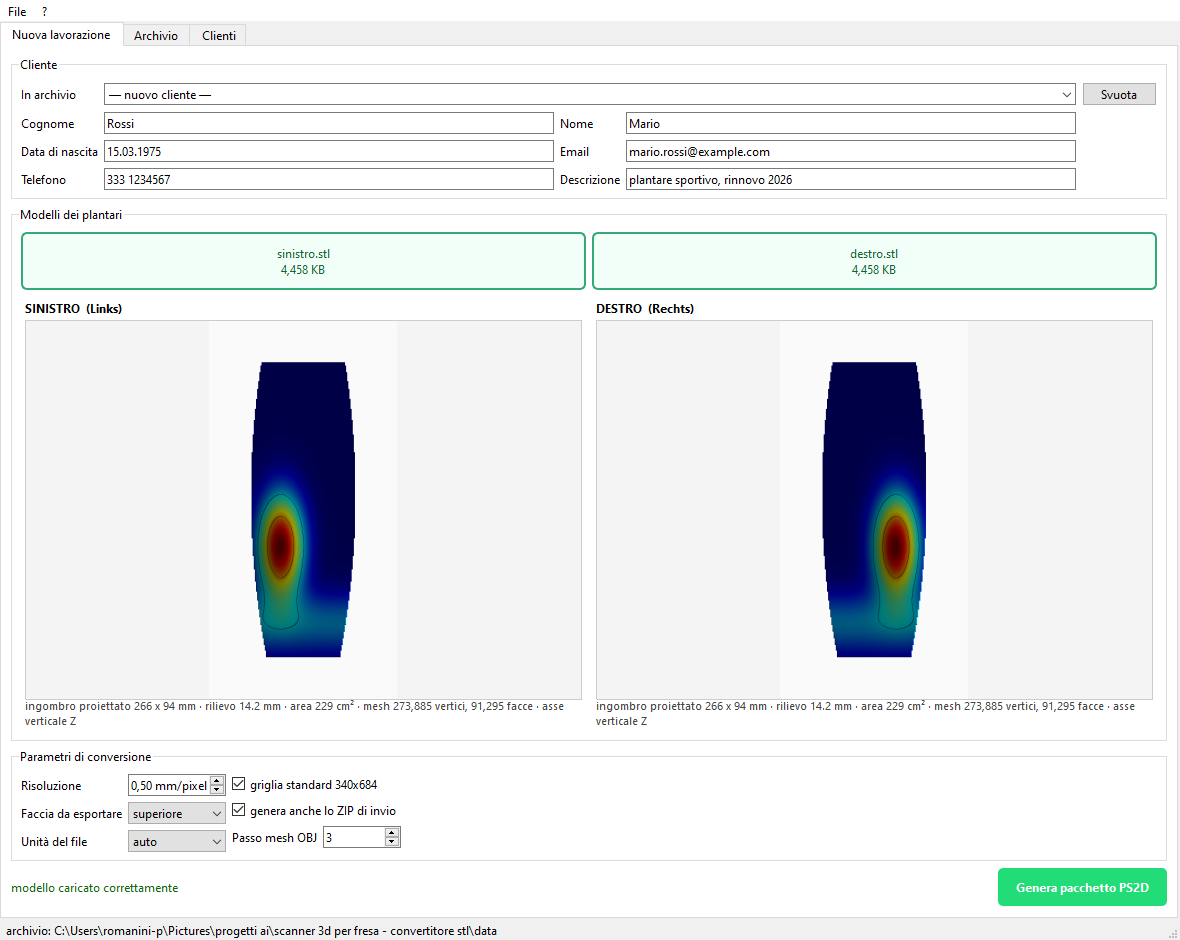
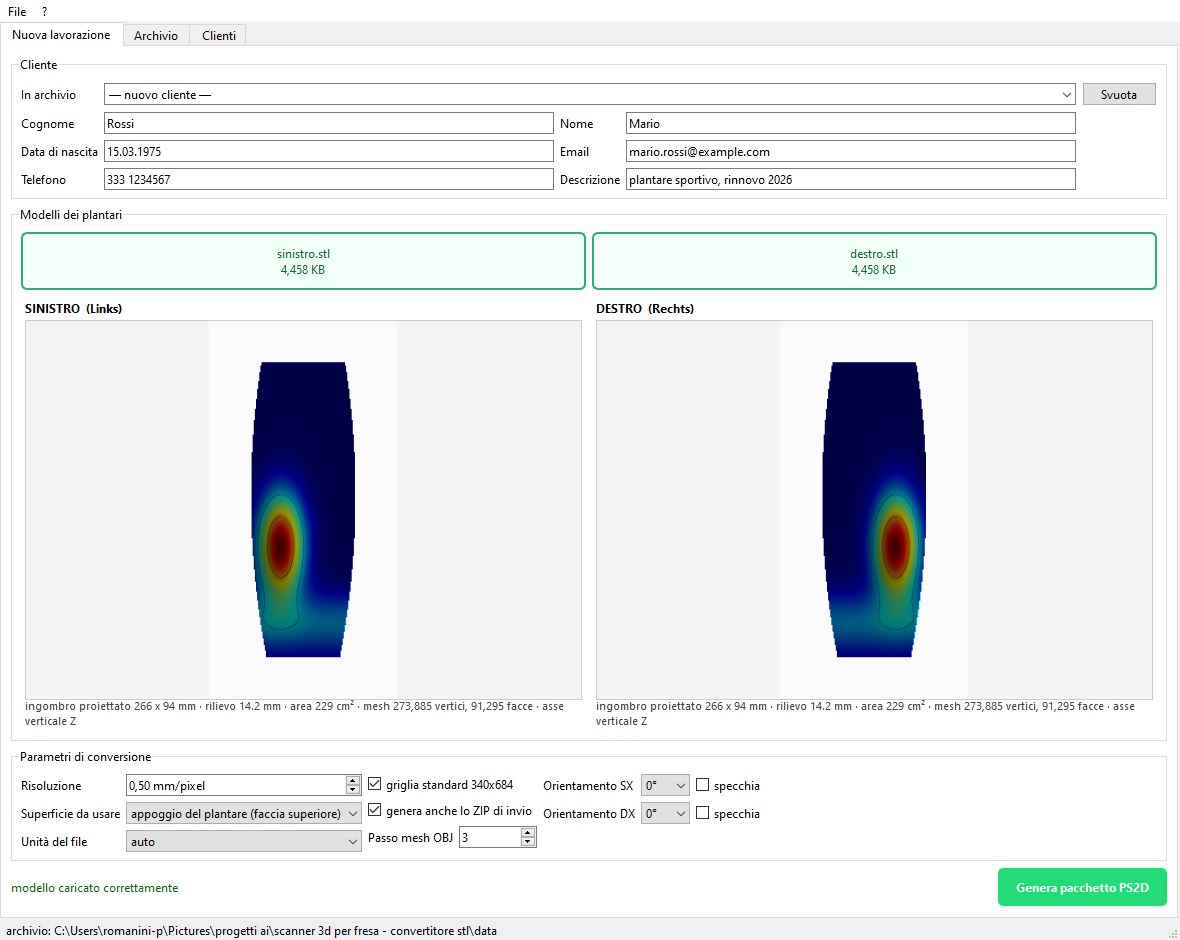
Orientamento configurabile e flusso di lavoro chiarito
Il .ps2d non e' il file che va alla fresa: e' l'input del software di
modellazione, che importa lo ZIP, crea il paziente e apre le immagini.
Il caso d'uso reale e' quindi far entrare nel flusso scansioni di piedi
acquisite con uno scanner diverso da quello nativo, non plantari gia'
modellati: cade il rischio dello spessore aggiunto due volte.

Ne discendono due esigenze pratiche. Su un piede scansionato intero la
pianta e' la faccia inferiore, non la superiore, e la scelta ora ha
etichette esplicite con quel valore predefinito. L'orientamento puo'
inoltre differire da scanner a scanner: aggiunte rotazione a passi di
90 gradi e specchiatura, separate per lato, con rigenerazione immediata
dell'anteprima a ogni modifica.

Corretta anche la gestione dei thread di anteprima: cambiando in fretta
un parametro se ne accodavano piu' di uno sullo stesso lato e Qt poteva
distruggerne uno mentre lavorava.

Changed region(s): [[0.0305, 0.8021, 0.6407, 0.9255]]

diff --git a/src/gui/scheda_conversione.py b/src/gui/scheda_conversione.py
@@ -125,7 +125,7 @@ class SchedaConversione(QWidget):
         self.archivio = archivio
         self._thread: QThread | None = None
         self._lavoro = None
-        self._anteprime: dict[str, object] = {}
+        self._in_corso: list[tuple] = []
 
         principale = QVBoxLayout(self)
 
@@ -192,11 +192,19 @@ class SchedaConversione(QWidget):
         self.risoluzione.setValue(0.5)
         self.risoluzione.setSuffix(" mm/pixel")
         self.superficie = QComboBox()
-        self.superficie.addItems(["superiore", "inferiore"])
+        self.superficie.addItem("pianta del piede (faccia inferiore)", "inferiore")
+        self.superficie.addItem("appoggio del plantare (faccia superiore)", "superiore")
+        self.superficie.setToolTip(
+            "Su un piede scansionato intero la pianta è la faccia rivolta\n"
+            "verso il basso. Su un plantare già modellato serve invece la\n"
+            "faccia superiore, quella su cui appoggia il piede.\n"
+            "Controlla l'anteprima: l'arco deve risultare rilevato, non incavato.")
+        self.superficie.currentIndexChanged.connect(self._riconverti)
         self.unita = QComboBox()
         self.unita.addItems(["auto", "mm", "cm", "m"])
+        self.unita.currentIndexChanged.connect(self._riconverti)
         form_op.addRow("Risoluzione", self.risoluzione)
-        form_op.addRow("Faccia da esportare", self.superficie)
+        form_op.addRow("Superficie da usare", self.superficie)
         form_op.addRow("Unità del file", self.unita)
 
         form_op2 = QFormLayout()
@@ -215,8 +223,34 @@ class SchedaConversione(QWidget):
         form_op2.addRow(self.zip_invio)
         form_op2.addRow("Passo mesh OBJ", self.passo_obj)
 
+        # orientamento, separato per lato: scanner diversi appoggiano il
+        # piede in versi diversi, e il software si aspetta punta in alto
+        form_or = QFormLayout()
+        self.rotazione_sx = QComboBox()
+        self.rotazione_dx = QComboBox()
+        for combo in (self.rotazione_sx, self.rotazione_dx):
+            for gradi in (0, 90, 180, 270):
+                combo.addItem(f"{gradi}°", float(gradi))
+            combo.currentIndexChanged.connect(self._riconverti)
+        self.specchia_sx = QCheckBox("specchia")
+        self.specchia_dx = QCheckBox("specchia")
+        for spunta in (self.specchia_sx, self.specchia_dx):
+            spunta.setToolTip("Ribalta il modello, se lo scanner lo produce "
+                              "rovesciato rispetto al lato")
+            spunta.stateChanged.connect(self._riconverti)
+
+        riga_sx = QHBoxLayout()
+        riga_sx.addWidget(self.rotazione_sx)
+        riga_sx.addWidget(self.specchia_sx)
+        riga_dx = QHBoxLayout()
+        riga_dx.addWidget(self.rotazione_dx)
+        riga_dx.addWidget(self.specchia_dx)
+        form_or.addRow("Orientamento SX", riga_sx)
+        form_or.addRow("Orientamento DX", riga_dx)
+
         opzioni.addLayout(form_op)
         opzioni.addLayout(form_op2)
+        opzioni.addLayout(form_or)
         opzioni.addStretch(1)
         principale.addWidget(gruppo_opzioni)
 
@@ -281,11 +315,21 @@ class SchedaConversione(QWidget):
         return OpzioniConversione(
             mm_per_px=self.risoluzione.value(),
             usa_frame_standard=self.frame_standard.isChecked(),
-            superficie=self.superficie.currentText(),
+            superficie=self.superficie.currentData(),
             unita=self.unita.currentText(),
+            ruota_gradi_sx=self.rotazione_sx.currentData(),
+            ruota_gradi_dx=self.rotazione_dx.currentData(),
+            specchia_sx=self.specchia_sx.isChecked(),
+            specchia_dx=self.specchia_dx.isChecked(),
             passo_obj=self.passo_obj.value(),
             genera_zip_invio=self.zip_invio.isChecked(),
         )
+
+    def _riconverti(self) -> None:
+        """Rigenera le anteprime quando cambia un parametro di orientamento."""
+        for lato, zona in ((LATO_SX, self.zona_sx), (LATO_DX, self.zona_dx)):
+            if zona.percorso:
+                self._aggiorna_anteprima(lato, str(zona.percorso))
 
     def _aggiorna_anteprima(self, lato: str, percorso: str) -> None:
         widget = self.anteprima_sx if lato == LATO_SX else self.anteprima_dx
@@ -300,9 +344,20 @@ class SchedaConversione(QWidget):
         lavoro.fallito.connect(self._anteprima_fallita)
         lavoro.finito.connect(thread.quit)
         lavoro.fallito.connect(thread.quit)
-        thread.finished.connect(thread.deleteLater)
-        # riferimenti tenuti in vita finche' il thread lavora
-        self._anteprime[lato] = (thread, lavoro)
+
+        # I riferimenti vanno tenuti vivi lato Python finche' il thread gira,
+        # altrimenti Qt lo distrugge a meta' lavoro. Cambiando in fretta un
+        # parametro si accodano piu' conversioni dello stesso lato: si tiene
+        # una lista e si scarta ciascuna quando ha finito davvero.
+        coppia = (thread, lavoro)
+        self._in_corso.append(coppia)
+
+        def concluso():
+            if coppia in self._in_corso:
+                self._in_corso.remove(coppia)
+            thread.deleteLater()
+
+        thread.finished.connect(concluso)
         thread.start()
 
     def _anteprima_pronta(self, lato: str, esito) -> None:

diff --git a/src/servizio.py b/src/servizio.py
@@ -35,6 +35,8 @@ class OpzioniConversione:
     unita: str = "auto"
     ruota_gradi_sx: float = 0.0
     ruota_gradi_dx: float = 0.0
+    specchia_sx: bool = False
+    specchia_dx: bool = False
     passo_obj: int = 3
     genera_zip_invio: bool = True
 
@@ -80,8 +82,7 @@ def prepara_lato(percorso: Path, lato: str, opzioni: OpzioniConversione,
 
         if avanzamento:
             avanzamento(f"{lato}: proiezione sulla griglia")
-        ruota = (opzioni.ruota_gradi_sx if lato == LATO_SX
-                 else opzioni.ruota_gradi_dx)
+        sinistro = lato == LATO_SX
         risultato = converti(
             mesh,
             mm_per_px=opzioni.mm_per_px,
@@ -89,7 +90,9 @@ def prepara_lato(percorso: Path, lato: str, opzioni: OpzioniConversione,
             margine_mm=opzioni.margine_mm,
             superficie=opzioni.superficie,
             unita=opzioni.unita,
-            ruota_gradi=ruota,
+            ruota_gradi=(opzioni.ruota_gradi_sx if sinistro
+                         else opzioni.ruota_gradi_dx),
+            specchia=opzioni.specchia_sx if sinistro else opzioni.specchia_dx,
         )
         esito.risultato = risultato
         esito.avvisi = list(risultato.avvisi) + controlla_plausibilita(risultato)

diff --git a/src/ps2d/mesh2height.py b/src/ps2d/mesh2height.py
@@ -102,11 +102,16 @@ def converti(
     unita: str = "auto",
     centra: bool = True,
     tolleranza_faccia_mm: float | None = None,
+    specchia: bool = False,
 ) -> RisultatoConversione:
     """Proietta la mesh sulla griglia e restituisce le quote in millimetri.
 
-    superficie: "superiore" tiene la faccia rivolta verso l'alto (quella su
-    cui appoggia il piede), "inferiore" quella verso il basso.
+    superficie: "superiore" tiene la faccia rivolta verso l'alto,
+    "inferiore" quella verso il basso. Su un piede scansionato intero la
+    pianta e' quasi sempre la faccia inferiore; su un plantare gia'
+    modellato e' la superiore, dove appoggia il piede.
+    specchia: ribalta l'asse trasversale, per quando lo scanner produce il
+    piede rovesciato rispetto al lato dichiarato.
     unita: "auto" deduce la scala dalle dimensioni, oppure "mm", "cm", "m".
     tolleranza_faccia_mm: spessore della fascia, sotto il punto piu' alto di
     ogni cella, entro cui i campioni sono considerati parte della faccia
@@ -141,6 +146,9 @@ def converti(
 
     if superficie == "inferiore":
         P[:, 2] = -P[:, 2]
+
+    if specchia:
+        P[:, 0] = -P[:, 0]
 
     if ruota_gradi:
         a = np.deg2rad(ruota_gradi)

diff --git a/tests/test_flusso.py b/tests/test_flusso.py
@@ -90,8 +90,11 @@ def main() -> int:
         print(f"cliente creato: {cliente.etichetta}")
 
         passi: list[str] = []
+        # i modelli di prova sono plantari, quindi serve la faccia superiore:
+        # per le scansioni di piede si usa invece quella inferiore, la pianta
         esito = esporta(archivio, cliente, sx, dx,
-                        OpzioniConversione(genera_zip_invio=True),
+                        OpzioniConversione(genera_zip_invio=True,
+                                           superficie="superiore"),
                         descrizione="prova automatica",
                         avanzamento=passi.append)
 

diff --git a/obsidian/03-Anomalie/Verifiche aperte.md b/obsidian/03-Anomalie/Verifiche aperte.md
@@ -1,33 +1,48 @@
 # Verifiche aperte
 
-## V1 — Come la fresa interpreta un PS2D che contiene un plantare
+## V1 — Il software accetta i pacchetti che generiamo? *(chiarita in parte)*
 
-**La questione.** Il formato PS2D nasce per trasportare la **scansione di un
-piede**: è questo che contengono i pacchetti autentici esaminati. Il
-gestionale ci mette dentro un **plantare già modellato**. Il file è
-formalmente identico, ma il significato di ciò che trasporta è diverso.
+**Come funziona davvero il flusso** (chiarito il 12 agosto 2026). Il `.ps2d`
+non è il file che va alla fresa: è **l'input del software di modellazione**
+fornito dall'azienda. Il programma importa lo ZIP, crea il paziente, apre le
+immagini della scansione; la modellazione del plantare avviene lì dentro, e
+solo alla fine un pulsante manda il pezzo alla macchina.
 
-Due scenari:
+**Cosa cade, di conseguenza.** Il timore dello "spessore aggiunto due volte"
+non si applica al caso d'uso reale: nel gestionale si caricano **scansioni di
+piedi** acquisite con un altro scanner, non plantari già modellati. Il
+pacchetto generato contiene quindi la stessa cosa che contengono quelli dello
+scanner nativo, e il software fa il lavoro che fa sempre.
 
-1. il software della fresa tratta il `.ps2d` come geometria da lavorare —
-   tutto a posto, il pezzo esce come il modello caricato;
-2. lo tratta come piede scansionato e ci costruisce sopra il plantare
-   applicando le proprie regole — il file viene letto senza errori ma il
-   pezzo esce **diverso**, probabilmente con lo spessore aggiunto due volte.
+**Cosa resta da verificare.** Solo la conformità formale: che il programma
+apra senza errori un pacchetto scritto da noi. Non è più una questione di
+interpretazione ma di accettazione del file.
 
-**Perché non si può risolvere dai file.** Nessuna analisi dei pacchetti può
-dire cosa fa il programma che li legge. Serve una prova sulla macchina.
+**Come verificare.** `strumenti/genera_prova_import.py` costruisce un
+pacchetto partendo dalla geometria di una scansione autentica, riletta e
+ripassata per intero attraverso il generatore, con anagrafica di fantasia
+(PROVA IMPORT, 01.01.2000). Se il software lo apre come apre l'originale, il
+formato è validato: stessa geometria, file interamente riscritto da noi.
 
-**Come verificare.** Generare un pacchetto da un plantare di forma nota,
-aprirlo nel software della fresa e confrontare con il modello di partenza:
-altezza dell'arco, spessore al tallone, lunghezza totale. Se il software
-mostra il pezzo così com'è, scenario 1. Se propone un plantare da costruire,
-scenario 2.
+Se invece dà errore, va annotato **il messaggio esatto**: dice quale campo
+non gli torna. In quel caso serve il programma dell'azienda per capire quali
+controlli esegue in lettura.
 
-**Se si verifica lo scenario 2.** Le strade sono due: generare la superficie
-pre-compensata, sottraendo ciò che il software aggiunge, oppure esportare in
-un altro formato accettato dalla macchina. Va deciso dopo la prova, non
-prima.
+---
+
+## V1b — Orientamento delle scansioni di provenienza diversa
+
+Uno scanner diverso da quello nativo può produrre il piede orientato in
+un altro verso, e se il modello è il piede intero la **pianta è la faccia
+inferiore**, non la superiore: proiettando dall'alto si otterrebbe il dorso.
+
+Nell'interfaccia ci sono quindi la scelta della superficie (predefinita:
+pianta del piede), la rotazione a passi di 90° e la specchiatura, separate
+per lato. L'anteprima serve proprio a questo: l'arco deve risultare
+**rilevato**, non incavato, e la punta orientata come nelle scansioni native.
+
+Da capire alla prima prova con lo scanner reale: quale combinazione è quella
+giusta. Una volta trovata, conviene renderla predefinita in `config.py`.
 
 ---
 

diff --git a/docs/FORMATO_PS2D.md b/docs/FORMATO_PS2D.md
@@ -206,15 +206,34 @@ di appoggio.
 
 ---
 
-## 7. Cosa resta da verificare
+## 7. Dove si colloca il PS2D nel flusso di lavoro
 
-Il generatore produce pacchetti **formalmente conformi** a quanto decodificato:
-stessi header, stessa griglia, stessa convenzione delle quote, stessi sei
-layer per piede, stessa struttura degli ZIP. Resta da confermare sul campo
-**come il software della fresa interpreta il contenuto**: se lo tratta come
-geometria finita da lavorare, oppure come scansione di un piede su cui
-costruire il plantare secondo le proprie regole. Nel secondo caso il file
-verrebbe letto senza errori ma il pezzo uscirebbe diverso da quello atteso.
+Il `.ps2d` **non è il file che va alla fresa**: è l'input del software di
+modellazione. Il programma importa lo ZIP, crea il paziente e apre le
+immagini della scansione; il plantare si disegna lì dentro, e solo alla fine
+il pezzo viene mandato alla macchina.
 
-La verifica richiede una prova reale sulla macchina. Vedi
-`obsidian/03-Anomalie/Verifiche aperte.md`.
+Chi genera pacchetti con questi strumenti sta quindi facendo entrare nel
+flusso una **scansione di piede** acquisita altrove — con uno scanner
+diverso, o partendo da un calco. Il contenuto è dello stesso tipo di quello
+prodotto dallo scanner nativo, e il software si comporta come sempre.
+
+Due avvertenze pratiche, per le scansioni di altra provenienza:
+
+- se il modello è il piede intero, la superficie che serve è la **faccia
+  inferiore**, la pianta: proiettando dall'alto si otterrebbe il dorso;
+- l'orientamento può differire da quello atteso, quindi vanno previste
+  rotazione e specchiatura, da controllare sull'anteprima.
+
+## 8. Cosa resta da verificare
+
+Il generatore produce pacchetti **formalmente conformi** a quanto
+decodificato: stessi header, stessa griglia, stessa convenzione delle quote,
+stessi sei layer per piede, stessa struttura degli ZIP. Resta da confermare
+che il software di modellazione li apra senza errori, cosa che nessuna
+analisi dei file può stabilire.
+
+Lo strumento `strumenti/genera_prova_import.py` serve a questo: costruisce un
+pacchetto dalla geometria di una scansione autentica, riletta e riscritta per
+intero, con anagrafica di fantasia. Se il software lo apre come apre
+l'originale, il formato è validato.

diff --git a/README.md b/README.md
@@ -61,13 +61,32 @@ py -3 tests\test_precisione.py <pacchetto.ps2d>
 py -3 tests\test_flusso.py
 ```
 
+## Dove si colloca nel flusso di lavoro
+
+Il `.ps2d` non è il file che va alla fresa: è **l'input del software di
+modellazione**. Quel programma importa lo ZIP, crea il paziente e apre le
+immagini; il plantare si disegna lì dentro e solo alla fine il pezzo va alla
+macchina. Questo gestionale serve quindi a far entrare nel flusso scansioni
+acquisite con **uno scanner diverso** da quello nativo.
+
+Due avvertenze per le scansioni di altra provenienza: se il modello è il
+piede intero la superficie da usare è la **faccia inferiore** — la pianta,
+non il dorso — e l'orientamento può differire, perciò l'interfaccia offre
+rotazione e specchiatura separate per lato. L'anteprima serve a controllarlo:
+l'arco deve risultare rilevato, non incavato.
+
 ## Da verificare
 
-Il generatore produce pacchetti conformi a quanto decodificato. Resta da
-confermare sul campo **come il software della fresa interpreti un PS2D che
-contiene un plantare invece di una scansione di piede**: potrebbe trattarlo
-come geometria finita da lavorare, oppure come piede su cui costruire il
-plantare con le proprie regole. Dettagli in
+Resta da confermare che il software di modellazione apra senza errori un
+pacchetto scritto da questo programma. Lo strumento apposito costruisce un
+file di prova dalla geometria di una scansione autentica, riscritta per
+intero, con anagrafica di fantasia:
+
+```bash
+py -3 strumenti\genera_prova_import.py <pacchetto_originale.ps2d>
+```
+
+Se si apre come l'originale, il formato è validato. Dettagli in
 `obsidian/03-Anomalie/Verifiche aperte.md`.
 
 ## Dati personali
